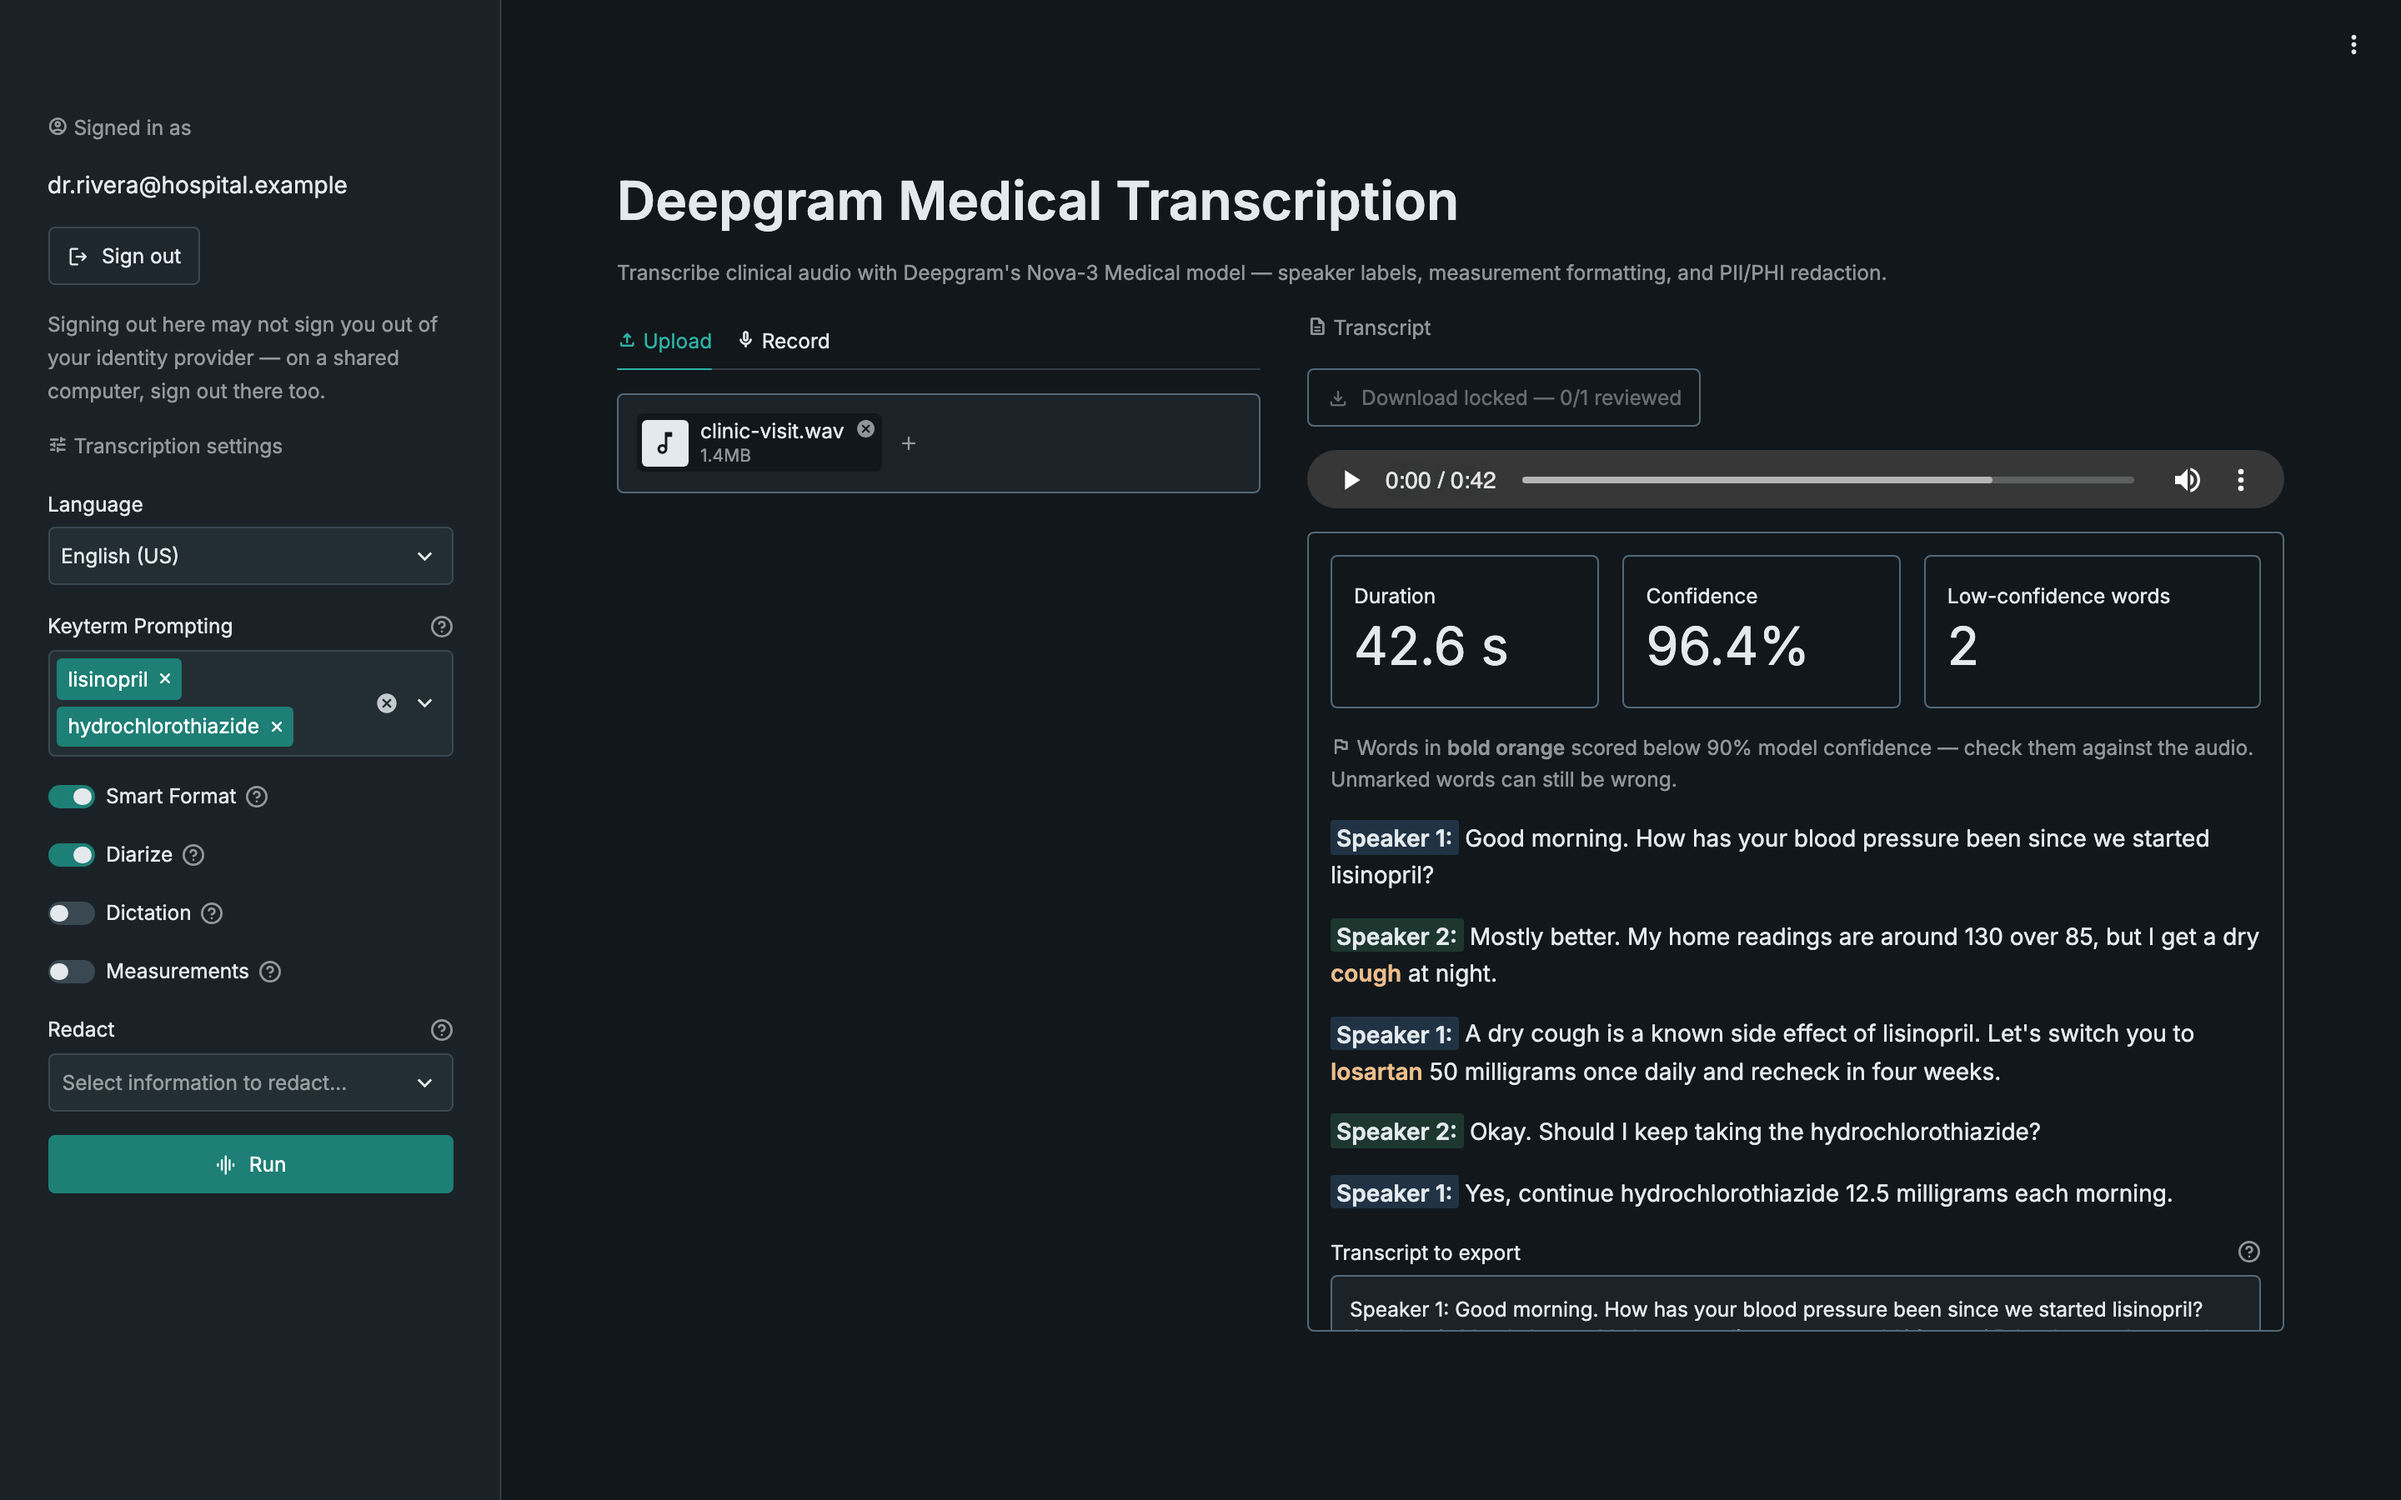
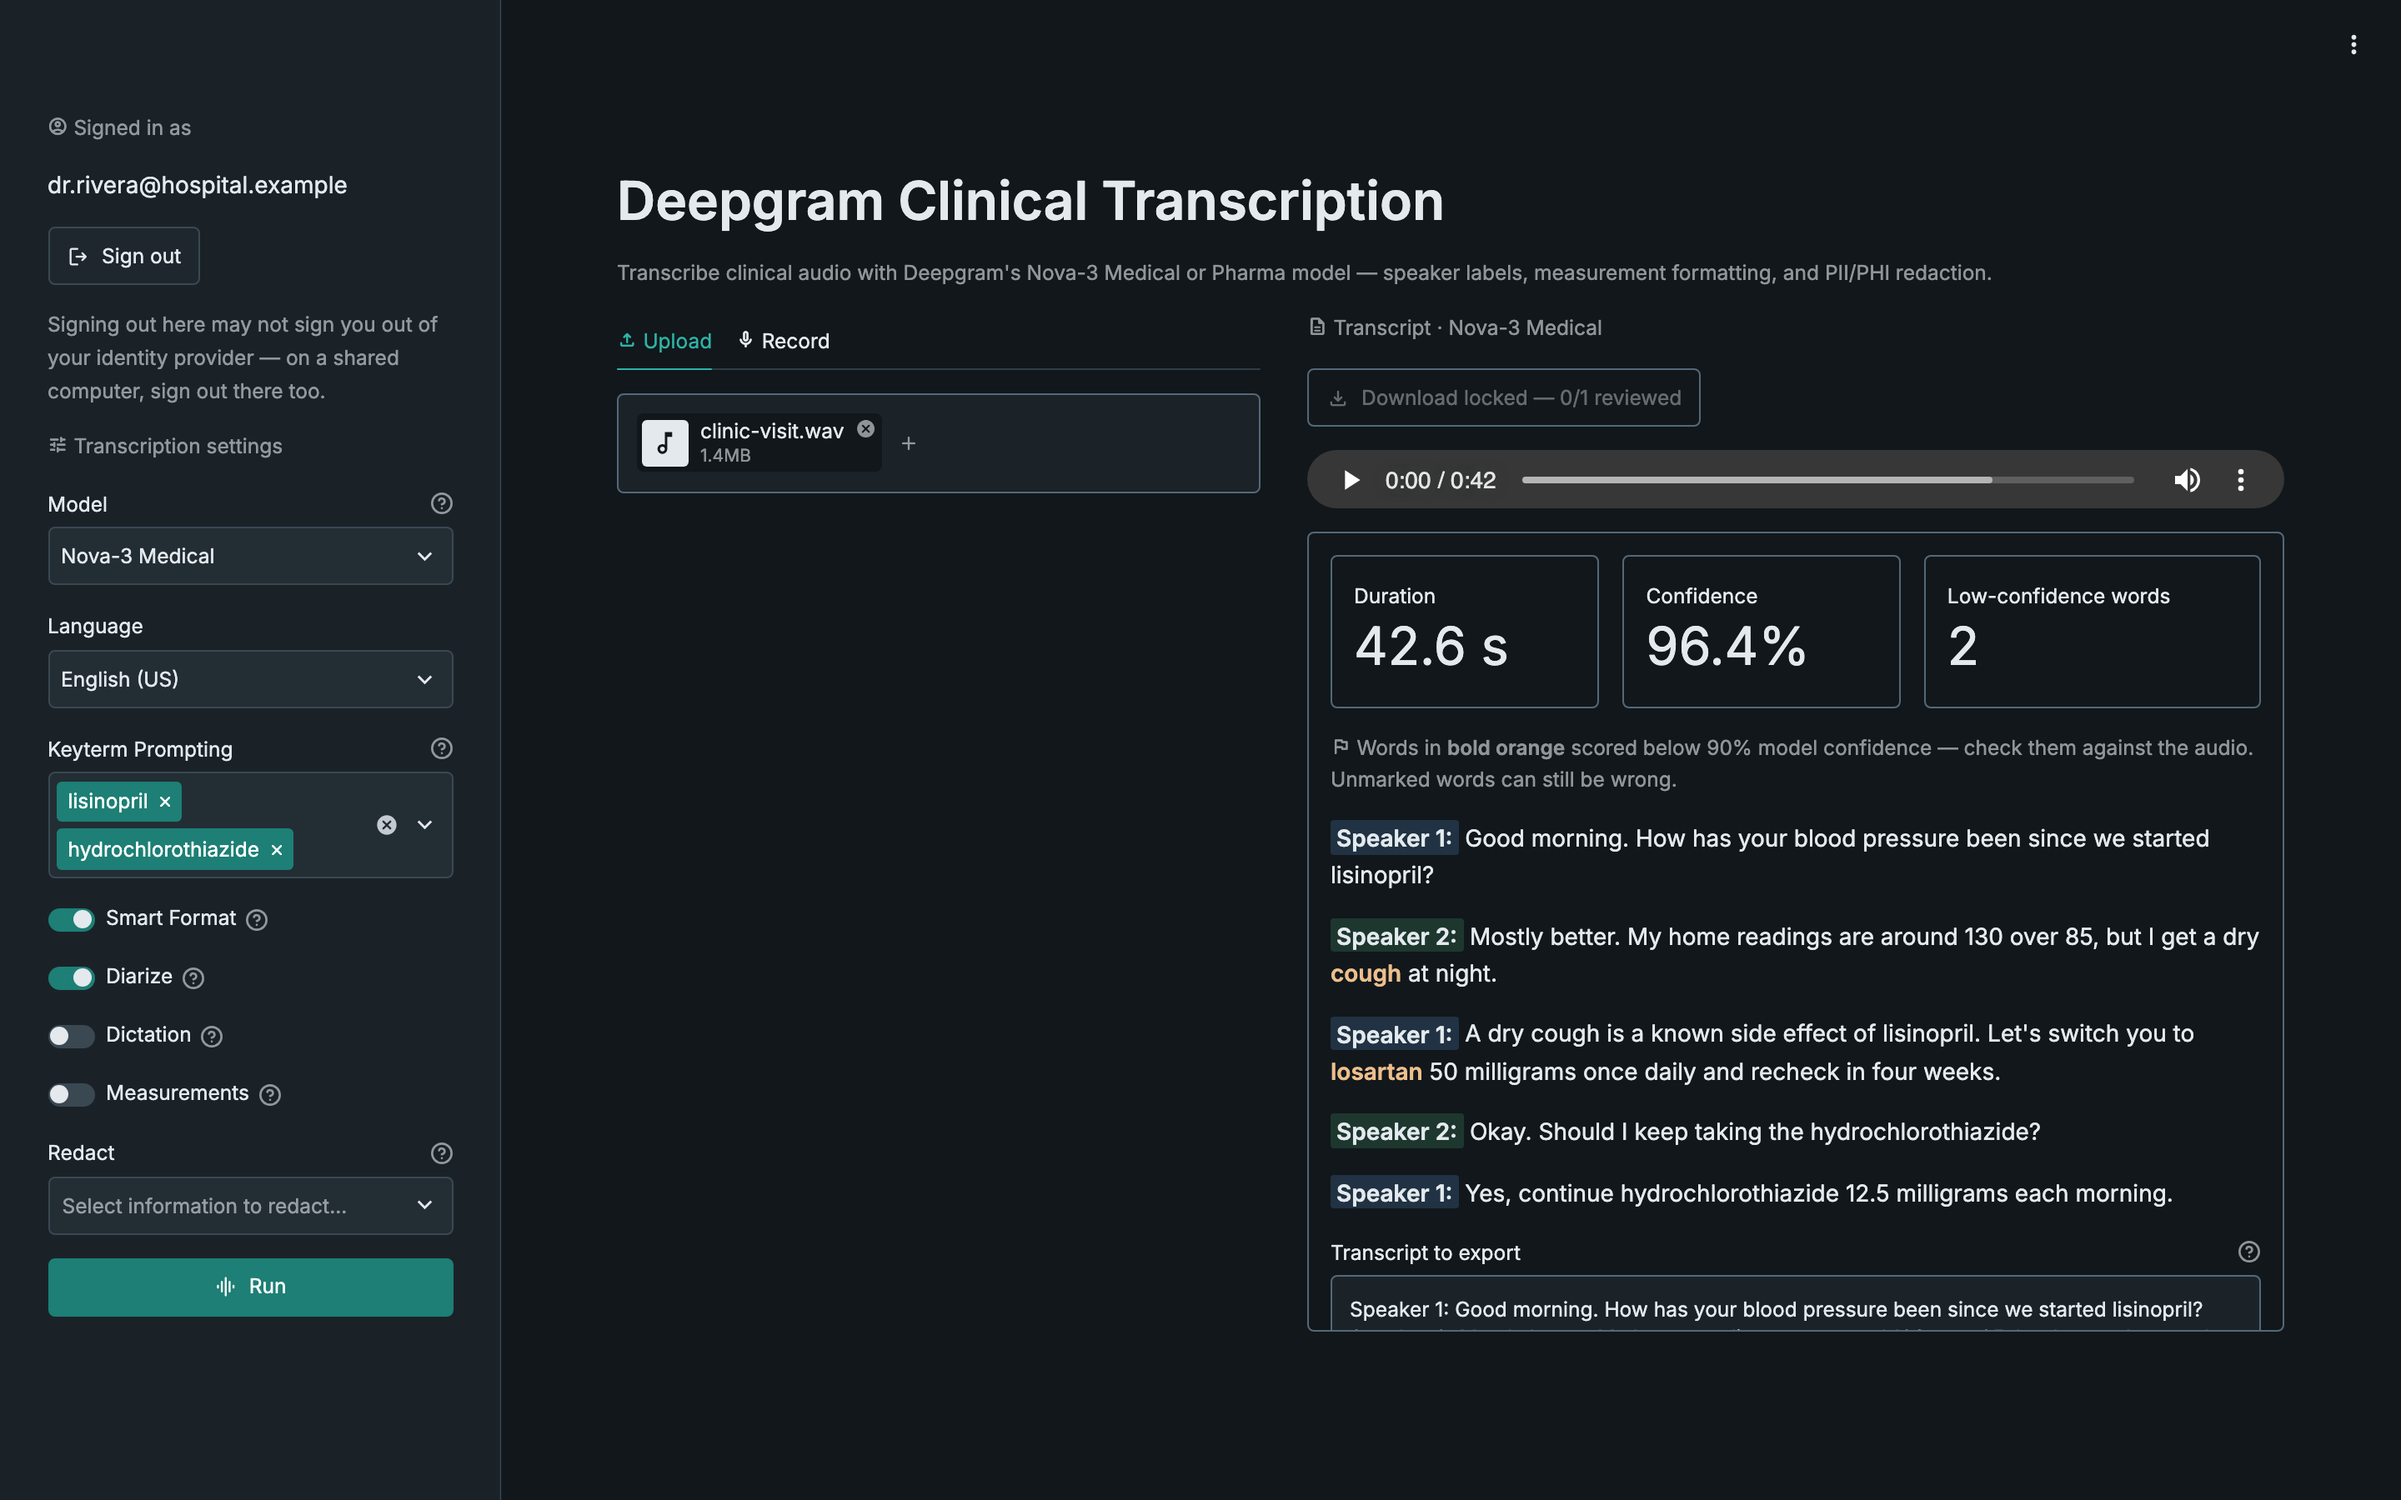
docs(readme): regenerate screenshots for the Model selector and new name
Recapture both README screenshots from the current app. They now show the
"Deepgram Clinical Transcription" title, the Model dropdown (Nova-3
Medical) and the "Transcript · Nova-3 Medical" header. Same fictional
encounter, sign-in, keyterms, toggles and two low-confidence flags as
d9a69e5. The alt text names the model.

Recipe (the harness lives only in a session scratchpad):
- A wrapper script patches nova.access.decide_access to return
  Decision("allow", email="dr.rivera@hospital.example", expires_at=now+1h),
  sets DEEPGRAM_API_KEY to a dummy, seeds session_state (responses as a
  SimpleNamespace response with per-word speaker/confidence, a silent
  42.6 s WAV as the audio source, run_id, run_model, language, keyterms),
  then runpy.run_path()s the real streamlit_app.py. Only (turn 1, "cough")
  and (turn 2, "losartan") are below 0.90. Run is never clicked, so no
  Deepgram call is made.
- Symlink static/ next to the wrapper (static serving is relative to the
  main script) and run `streamlit run` from the repo root (for
  .streamlit/config.toml) with --client.toolbarMode viewer (hides Deploy).
- Playwright headless Chromium, 1440x900 @2x, color_scheme light/dark:
  upload a silent clinic-visit.wav, click the Diarize toggle (setting a
  value= widget through session state would show Streamlit's warning),
  wait for "Download locked", then take the screenshot.
- Optimize losslessly with pyoxipng (level 4, strip safe).

diff --git a/README.md b/README.md
@@ -8,7 +8,7 @@ Streamlit application for clinical transcription using Deepgram's Nova-3 Medical
 
 <picture>
   <source media="(prefers-color-scheme: dark)" srcset="docs/screenshot-dark.png">
-  <img alt="The app signed in as dr.rivera@hospital.example. The settings sidebar has the keyterms lisinopril and hydrochlorothiazide, with Smart Format and Diarize on. The Upload tab holds clinic-visit.wav. The transcript panel shows an audio player, Duration, Confidence and Low-confidence words metrics, and color-coded Speaker 1 and Speaker 2 lines with two words flagged in bold orange. The Download button reads 'Download locked — 0/1 reviewed'." src="docs/screenshot-light.png">
+  <img alt="The app signed in as dr.rivera@hospital.example. The settings sidebar has Model set to Nova-3 Medical, the keyterms lisinopril and hydrochlorothiazide, and Smart Format and Diarize on. The Upload tab holds clinic-visit.wav. The transcript panel, headed 'Transcript · Nova-3 Medical', shows an audio player, Duration, Confidence and Low-confidence words metrics, and color-coded Speaker 1 and Speaker 2 lines with two words flagged in bold orange. The Download button reads 'Download locked — 0/1 reviewed'." src="docs/screenshot-light.png">
 </picture>
 
 <sub>Screenshot uses a synthetic, fictional transcript and a simulated sign-in — no real patient audio or account.</sub>
